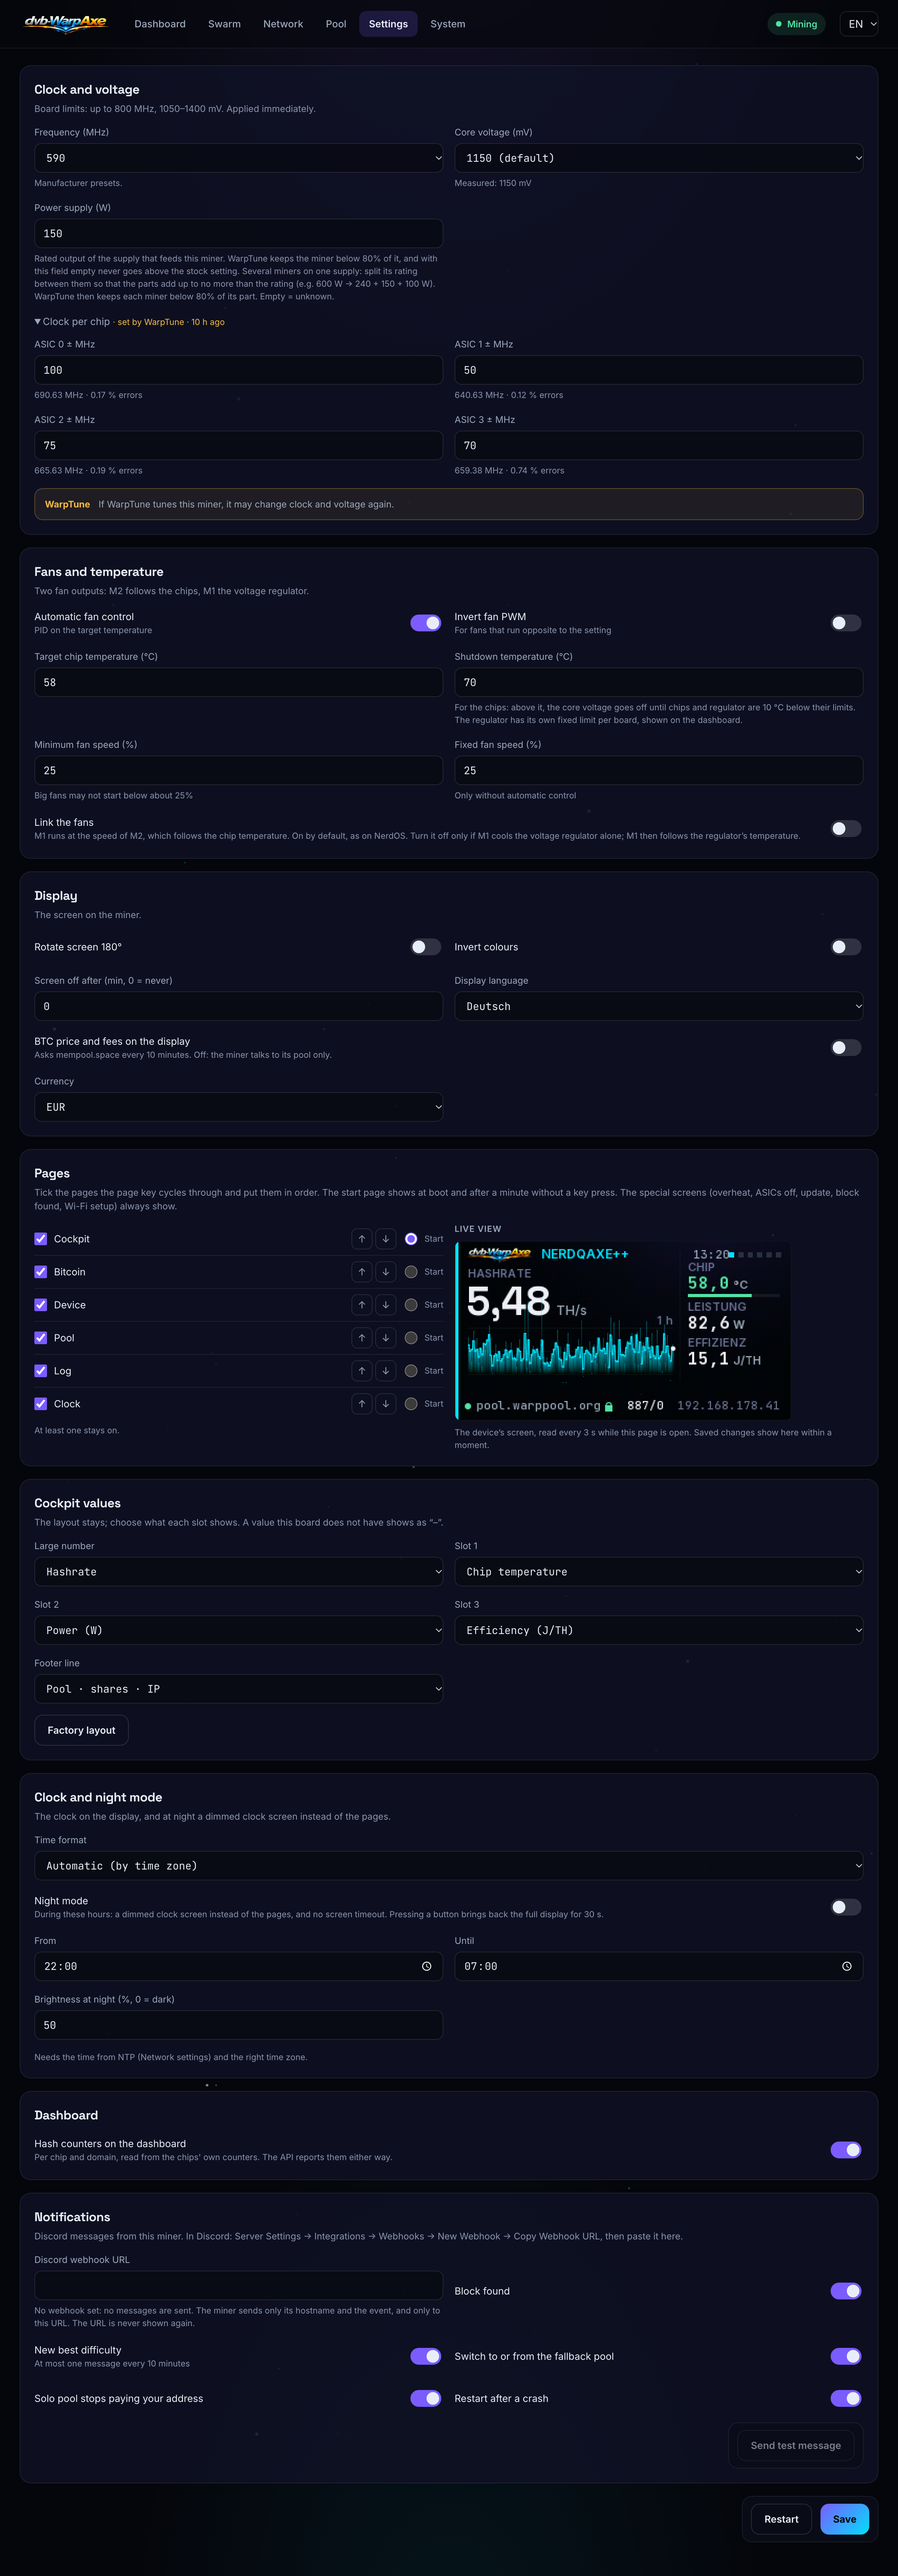
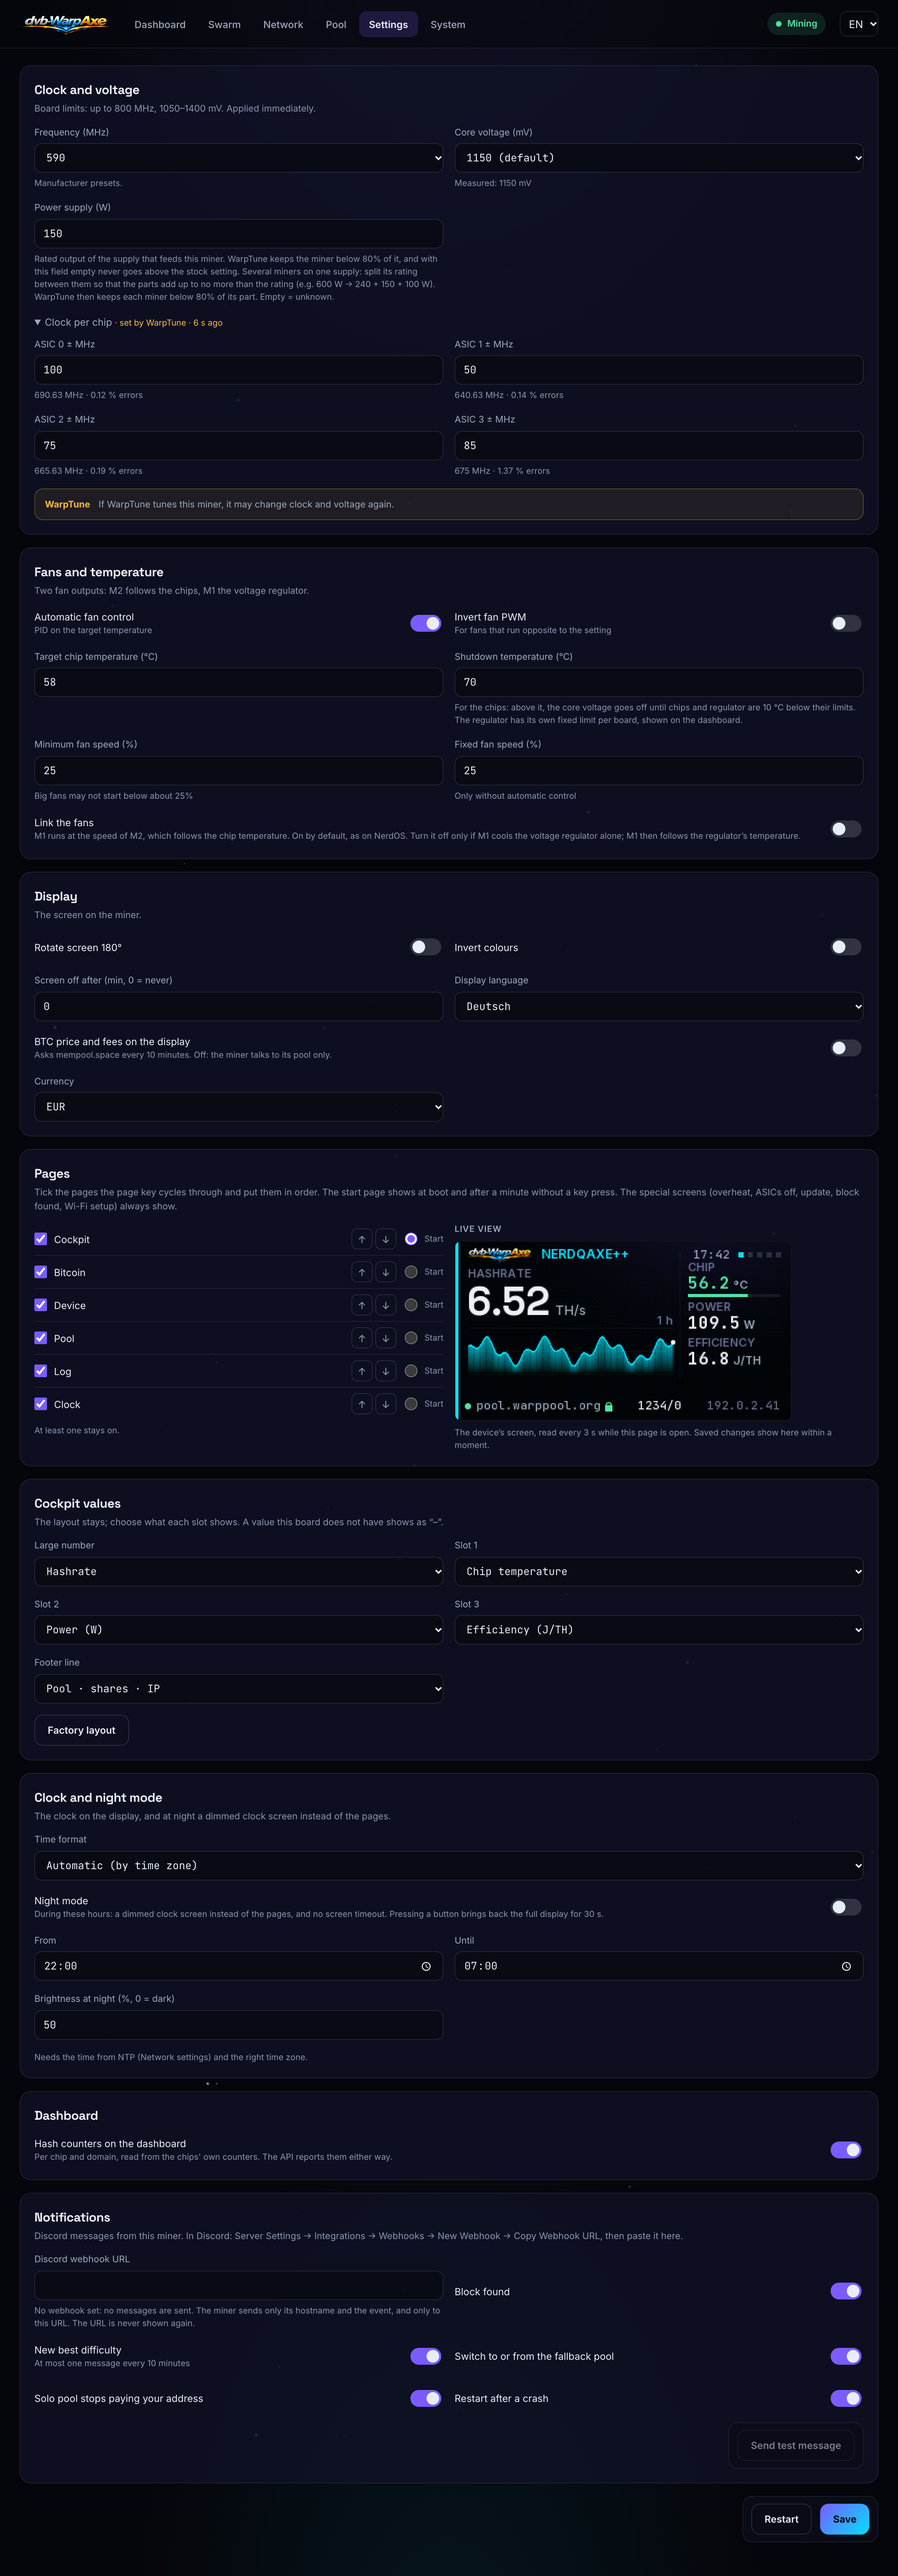
README: 7 more boards with a profile; the settings screenshot without a home address
The board table lists seven profile-only boards (Rev 7, NerdQAxe+, Duo,
Turbo, Gamma Hex, NerdAxe Gamma, NerdQX), the header and the comparison
said six. The settings screenshot's live view showed the miner's LAN
address; the new one comes from a preview frame (192.0.2.41), the rest
read-only from the device with the addresses masked.

Changed region(s): [[0.5312, 0.4992, 0.75, 0.5304], [0.7812, 0.4992, 0.8438, 0.5304]]

diff --git a/README.md b/README.md
@@ -5,7 +5,7 @@
 <p align="center">
   <strong>Open-source Rust firmware for BM1370, BM1373 and BM1397 Bitcoin miners</strong><br>
   Runs on Bitaxe Gamma · NerdQAxe++ · NerdOCTAXE-γ · NerdAxe Gaia · BitForge Nano · NerdNOS · Bitaxe Naja Duo<br>
-  <a href="#supported-boards">profiles for 6 more boards</a> · experimental on the T-Display-S3 · Stratum V1 + V2 · AxeOS-compatible API · Signed online updates
+  <a href="#supported-boards">profiles for 7 more boards</a> · experimental on the T-Display-S3 · Stratum V1 + V2 · AxeOS-compatible API · Signed online updates
 </p>
 
 <p align="center">
@@ -116,7 +116,7 @@ move fast; corrections welcome.
 | Other makers' miners on the swarm page | AxeOS devices only (the browser reads `/api/system/info`) | AxeOS devices only (the browser reads `/api/system/info` and `/api/system/asic`) | AxeOS devices only (the browser reads `/api/system/info` and `/api/system/asic`) | AxeOS, NerdOS, ForgeOS, WarpAxe — and an **Avalon over the cgminer API**, found by the network search and read by the miner, read-only |
 | Web UI languages | English | 9 | English | 8 |
 | Language, tests | C; unit tests (Stratum, ASIC) in CI | C++/C | C; unit tests (Stratum, mining) in QEMU in CI | Rust; chip, chain and board drivers host-tested against a simulated chain and I²C bus |
-| Supported boards | ~20 board versions | 11 boards, plus the NerdAxe Gaia since v1.1.1 | 1 (BitForge Nano) | 7 run, 6 more with a profile (see below) |
+| Supported boards | ~20 board versions | 11 boards, plus the NerdAxe Gaia since v1.1.1 | 1 (BitForge Nano) | 7 run, 7 more with a profile (see below) |
 
 What the stock firmware offers in addition: AxeOS and NerdOS support far more
 boards and have years of use by a large community; AxeOS has a scoreboard, themes,
